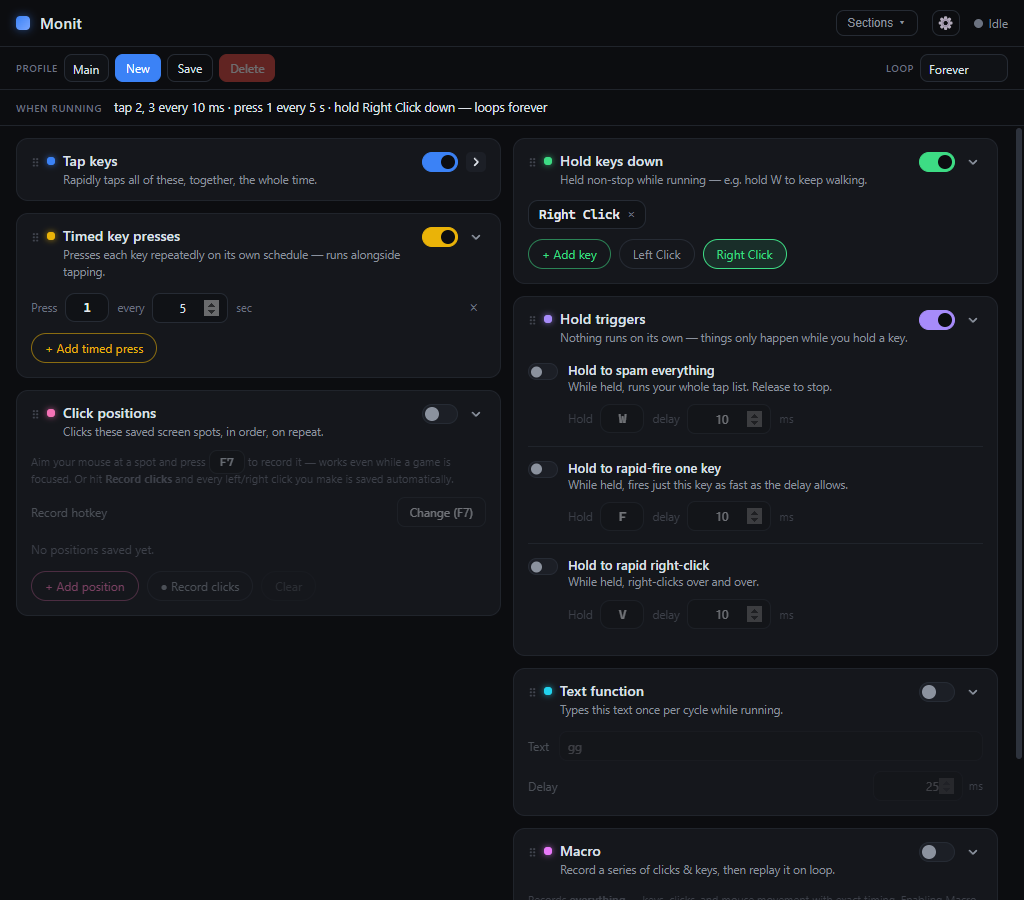
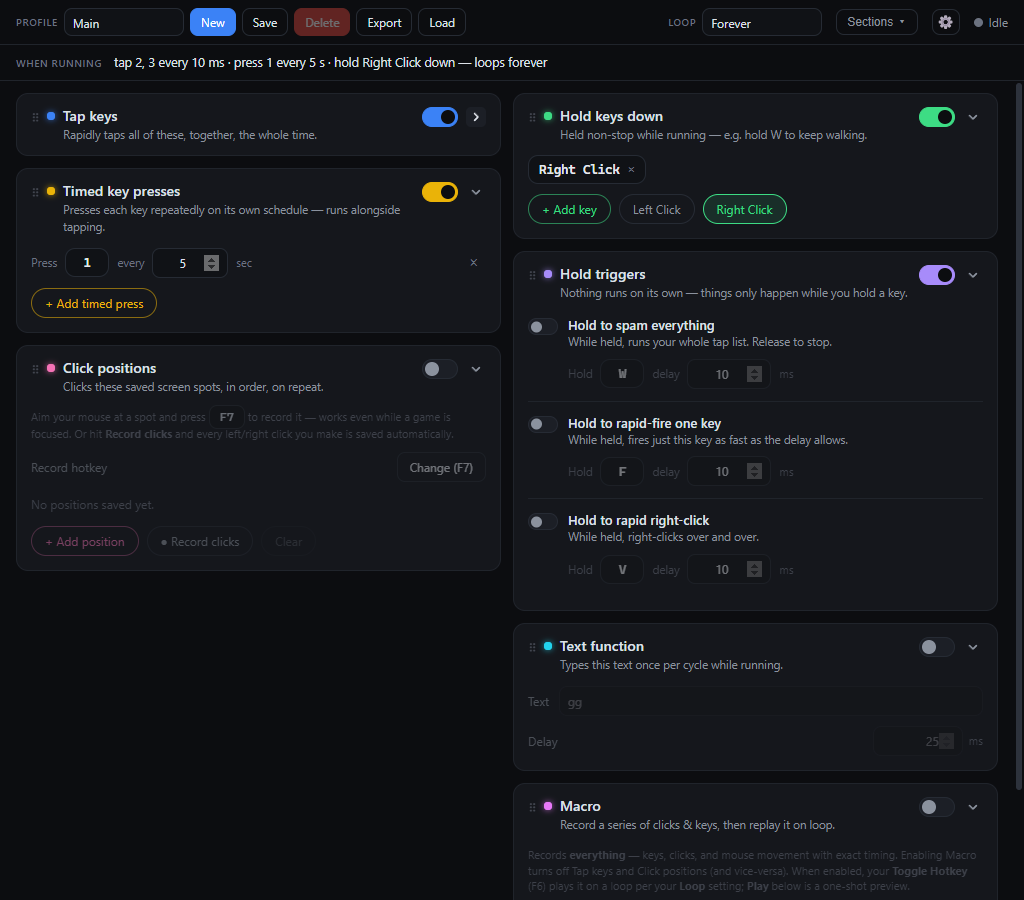
Merge the two toolbars into one top bar; drop the Monit title
- The header and the Profile/Loop sub-row are now a single top bar:
  Profile controls on the far left, then Loop, Sections, gear, and the
  status indicator on the right. The "Monit" title text + accent dot and
  the old .subbar row are removed.
- The bar wraps whole groups cleanly at narrow widths.
- The Sections dropdown is now positioned in JS (fixed, right-aligned
  under its button, clamped to the viewport) so it stays fully on-screen
  even when the bar wraps and the button moves to the left.
- Bump to 1.40.1.

diff --git a/tests/e2e/app.spec.ts b/tests/e2e/app.spec.ts
@@ -303,13 +303,23 @@ test('the Profile toolbar is a dropdown with New / Save / Delete / Export / Load
   await expect(profile.locator('select option')).toContainText(['Default'])
 })
 
-test('the top bar keeps only the title, Sections menu, gear, and status', async () => {
+test('the single top bar: Profile controls left; Loop, Sections, gear, status right', async () => {
   const bar = win.locator('.topbar')
-  await expect(bar.locator('.brand h1')).toHaveText('Monit')
-  await expect(bar.getByRole('button', { name: 'Sections ▾', exact: true })).toBeVisible()
-  await expect(bar.getByRole('button', { name: 'Options', exact: true })).toBeVisible()
-  await expect(bar.locator('.status')).toBeVisible()
-  // The hotkeys, text-size dropdown, and Reset Layout moved into Options.
+  // The "Monit" brand title/dot are gone; the Profile group sits on the far left.
+  await expect(bar.locator('.brand')).toHaveCount(0)
+  await expect(bar.locator('h1')).toHaveCount(0)
+  await expect(bar.locator('.subbar__group').filter({ hasText: 'Profile' })).toBeVisible()
+  // Loop lives in the right cluster, before the Sections button.
+  const tools = bar.locator('.topbar__tools')
+  await expect(tools.locator('.subbar__group').filter({ hasText: 'Loop' })).toBeVisible()
+  await expect(tools.getByRole('button', { name: 'Sections ▾', exact: true })).toBeVisible()
+  await expect(tools.getByRole('button', { name: 'Options', exact: true })).toBeVisible()
+  await expect(tools.locator('.status')).toBeVisible()
+  const loopBox = (await tools.locator('.subbar__group').boundingBox())!
+  const sectionsBox = (await tools.getByRole('button', { name: 'Sections ▾' }).boundingBox())!
+  expect(loopBox.x).toBeLessThan(sectionsBox.x)
+  // The old second row is gone, and so are the controls moved into Options.
+  await expect(win.locator('.subbar')).toHaveCount(0)
   await expect(bar.getByRole('button', { name: /^Toggle:/ })).toHaveCount(0)
   await expect(bar.getByRole('button', { name: /^Stop:/ })).toHaveCount(0)
   await expect(bar.getByRole('button', { name: 'Reset Layout' })).toHaveCount(0)
@@ -584,11 +594,14 @@ test('the Sections dropdown hides and restores a card', async () => {
   await expect(win.locator('.secmenu')).toHaveCount(0)
   await expect(section('Macro')).toBeVisible()
 
-  // Reopen and click outside (far left, away from the anchored panel) — the
-  // dropdown closes too.
+  // Reopen and click outside the panel — it closes too. The panel sits at the
+  // top (left when the bar wraps, right otherwise); a low-right point clears it
+  // in both layouts.
   await win.getByRole('button', { name: 'Sections ▾', exact: true }).click()
   await expect(win.locator('.secmenu')).toBeVisible()
-  await win.mouse.click(40, 400)
+  const menuBox = (await win.locator('.secmenu').boundingBox())!
+  const vp = win.viewportSize() ?? { width: 744, height: 701 }
+  await win.mouse.click(vp.width - 20, menuBox.y + menuBox.height + 40)
   await expect(win.locator('.secmenu')).toHaveCount(0)
 })
 

diff --git a/src/renderer/src/styles.css b/src/renderer/src/styles.css
@@ -55,43 +55,25 @@ body {
   color: var(--text-dim);
 }
 
-/* ---------- Top bar ---------- */
+/* ---------- Top bar (single row: Profile … Loop / Sections / ⚙ / status) ---------- */
 .topbar {
   display: flex;
   align-items: center;
   justify-content: space-between;
-  padding: 10px 16px;
+  flex-wrap: wrap;
+  gap: 8px 16px;
+  padding: 8px 16px;
   border-bottom: 1px solid var(--border-soft);
   background: var(--bg);
   -webkit-app-region: drag;
 }
 
-.brand {
-  display: flex;
-  align-items: center;
-  gap: 10px;
-}
-
-.brand__mark {
-  width: 14px;
-  height: 14px;
-  border-radius: 4px;
-  background: linear-gradient(135deg, var(--blue), #7aa7ff);
-  box-shadow: 0 0 10px rgba(59, 130, 246, 0.5);
-}
-
-.brand h1 {
-  font-size: 15px;
-  font-weight: 600;
-  margin: 0;
-  letter-spacing: 0.2px;
-}
-
-/* ---------- Top-bar tools (UI scale + status) ---------- */
+/* Right-side cluster: Loop, Sections, Options, status. */
 .topbar__tools {
   display: flex;
   align-items: center;
-  gap: 14px;
+  flex-wrap: wrap;
+  gap: 8px 14px;
   -webkit-app-region: no-drag;
 }
 
@@ -120,23 +102,20 @@ body {
   line-height: 1;
 }
 
-/* ---------- Secondary toolbar (Profile + Loop) ---------- */
-.subbar {
-  display: flex;
-  align-items: center;
-  justify-content: space-between;
-  flex-wrap: wrap;
-  gap: 8px 16px;
-  padding: 7px 16px;
-  background: var(--bg);
-  border-bottom: 1px solid var(--border-soft);
-  -webkit-app-region: no-drag;
-}
+/* ---------- Toolbar groups (Profile picker, Loop control) ---------- */
 .subbar__group {
   display: flex;
   align-items: center;
   gap: 6px;
-  min-width: 0;
+  /* Each group stays on one line; the top bar wraps whole groups instead. */
+  flex: none;
+  /* Lives inside the draggable top bar — keep its controls clickable. */
+  -webkit-app-region: no-drag;
+}
+/* Pin the dropdown width so the toolbar's layout math is stable (beats the
+   generic `.input { width: 100% }` by specificity). */
+.subbar__group .subbar__select {
+  width: 120px;
 }
 .subbar__label {
   font-size: 10px;
@@ -150,7 +129,7 @@ body {
 .subbar__select {
   width: auto;
   min-width: 0;
-  max-width: 200px;
+  max-width: 130px;
   height: 28px;
   padding: 0 24px 0 8px;
   /* little chevron so it still reads as a dropdown without the native arrow */
@@ -344,9 +323,9 @@ body {
   position: relative;
 }
 .secmenu {
-  position: absolute;
-  top: calc(100% + 8px);
-  right: 0;
+  /* Positioned in JS (SectionManager) so it stays on-screen when the top bar
+     wraps; fixed to the viewport, right-aligned under the Sections button. */
+  position: fixed;
   z-index: 120;
   width: 300px;
   padding: 14px;

diff --git a/src/renderer/src/components/SectionManager.tsx b/src/renderer/src/components/SectionManager.tsx
@@ -1,4 +1,4 @@
-import React, { useEffect, useRef } from 'react'
+import React, { useEffect, useLayoutEffect, useRef, useState } from 'react'
 import { SECTION_IDS, SECTION_LABELS, SECTION_ACCENTS, isSectionHidden } from '@shared/sections'
 import { useStore } from '../store'
 import { SectionToggle } from './SectionToggle'
@@ -6,6 +6,9 @@ import { SectionToggle } from './SectionToggle'
 interface Props {
   onClose: () => void
 }
+
+const PANEL_WIDTH = 300
+const GAP = 8
 
 /**
  * Sections picker: a dropdown panel anchored under the top bar's "Sections ▾"
@@ -15,7 +18,19 @@ interface Props {
  */
 export function SectionManager({ onClose }: Props): JSX.Element {
   const ref = useRef<HTMLDivElement>(null)
+  const [pos, setPos] = useState<{ top: number; left: number } | null>(null)
   const { activeProfile, setSectionHidden, showAllSections } = useStore()
+
+  // Anchor the panel under the "Sections ▾" trigger, right-aligned to it but
+  // clamped inside the viewport — so it never spills off-screen when the top
+  // bar wraps to a second line at narrow widths.
+  useLayoutEffect(() => {
+    const btn = ref.current?.parentElement?.querySelector('button')
+    if (!btn) return
+    const r = btn.getBoundingClientRect()
+    const left = Math.max(GAP, Math.min(r.right - PANEL_WIDTH, window.innerWidth - PANEL_WIDTH - GAP))
+    setPos({ top: r.bottom + GAP, left })
+  }, [])
 
   useEffect(() => {
     const onKey = (e: KeyboardEvent): void => {
@@ -39,7 +54,13 @@ export function SectionManager({ onClose }: Props): JSX.Element {
   const hiddenCount = SECTION_IDS.filter((id) => isSectionHidden(hidden, id)).length
 
   return (
-    <div className="secmenu" ref={ref} role="dialog" aria-label="Sections">
+    <div
+      className="secmenu"
+      ref={ref}
+      role="dialog"
+      aria-label="Sections"
+      style={pos ? { top: pos.top, left: pos.left } : { visibility: 'hidden' }}
+    >
       <div className="secmenu__title">Sections</div>
       <p className="secmenu__desc">
         Hidden sections disappear from the window and are skipped when running.

diff --git a/src/renderer/src/App.tsx b/src/renderer/src/App.tsx
@@ -178,11 +178,9 @@ export function App(): JSX.Element {
   return (
     <div className={`app${data?.settings.showHints === false ? ' app--nohints' : ''}`}>
       <header className="topbar">
-        <div className="brand">
-          <span className="brand__mark" />
-          <h1>Monit</h1>
-        </div>
+        <ProfileBar />
         <div className="topbar__tools">
+          <LoopBar />
           <div className="topbar__menuwrap">
             <button
               type="button"
@@ -207,11 +205,6 @@ export function App(): JSX.Element {
           <StatusIndicator />
         </div>
       </header>
-
-      <div className="subbar">
-        <ProfileBar />
-        <LoopBar />
-      </div>
 
       <SummaryBar />
 

diff --git a/README.md b/README.md
@@ -19,7 +19,7 @@
 
 <!-- DOWNLOAD BUTTONS -->
 <p align="center">
-  <a href="https://github.com/Scarmonit/AutoSpammer/releases/latest/download/Monit-Portable-1.40.0.exe">
+  <a href="https://github.com/Scarmonit/AutoSpammer/releases/latest/download/Monit-Portable-1.40.1.exe">
     <img src="https://img.shields.io/badge/Download%20Latest%20Version-Windows-3b82f6?style=for-the-badge&logo=windows&logoColor=white" alt="Download Latest Version (Windows)" height="46" />
   </a>
   &nbsp;
@@ -40,8 +40,8 @@ No setup or extra tools required — each option is a single file you just run.
 
 | Option | Best for | File |
 | --- | --- | --- |
-| **Portable** | Easiest — just run it. Nothing is installed. | **[Monit-Portable-1.40.0.exe](https://github.com/Scarmonit/AutoSpammer/releases/latest/download/Monit-Portable-1.40.0.exe)** |
-| **Installer** | Adds Desktop and Start-menu shortcuts. | **[Monit-Setup-1.40.0.exe](https://github.com/Scarmonit/AutoSpammer/releases/latest/download/Monit-Setup-1.40.0.exe)** |
+| **Portable** | Easiest — just run it. Nothing is installed. | **[Monit-Portable-1.40.1.exe](https://github.com/Scarmonit/AutoSpammer/releases/latest/download/Monit-Portable-1.40.1.exe)** |
+| **Installer** | Adds Desktop and Start-menu shortcuts. | **[Monit-Setup-1.40.1.exe](https://github.com/Scarmonit/AutoSpammer/releases/latest/download/Monit-Setup-1.40.1.exe)** |
 
 You can also open the **[latest release page](https://github.com/Scarmonit/AutoSpammer/releases/latest)** and grab either file under **Assets**.
 
